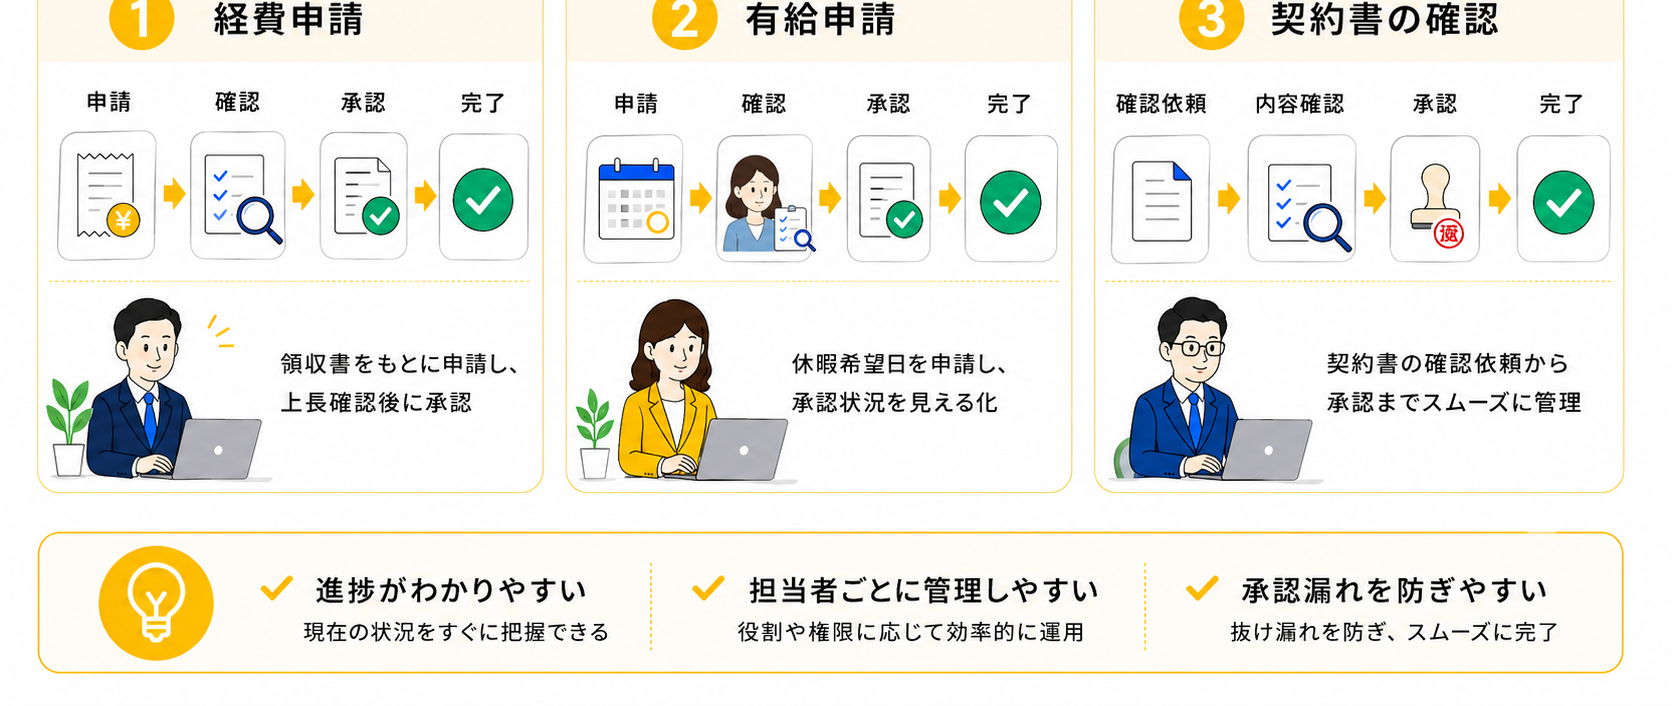
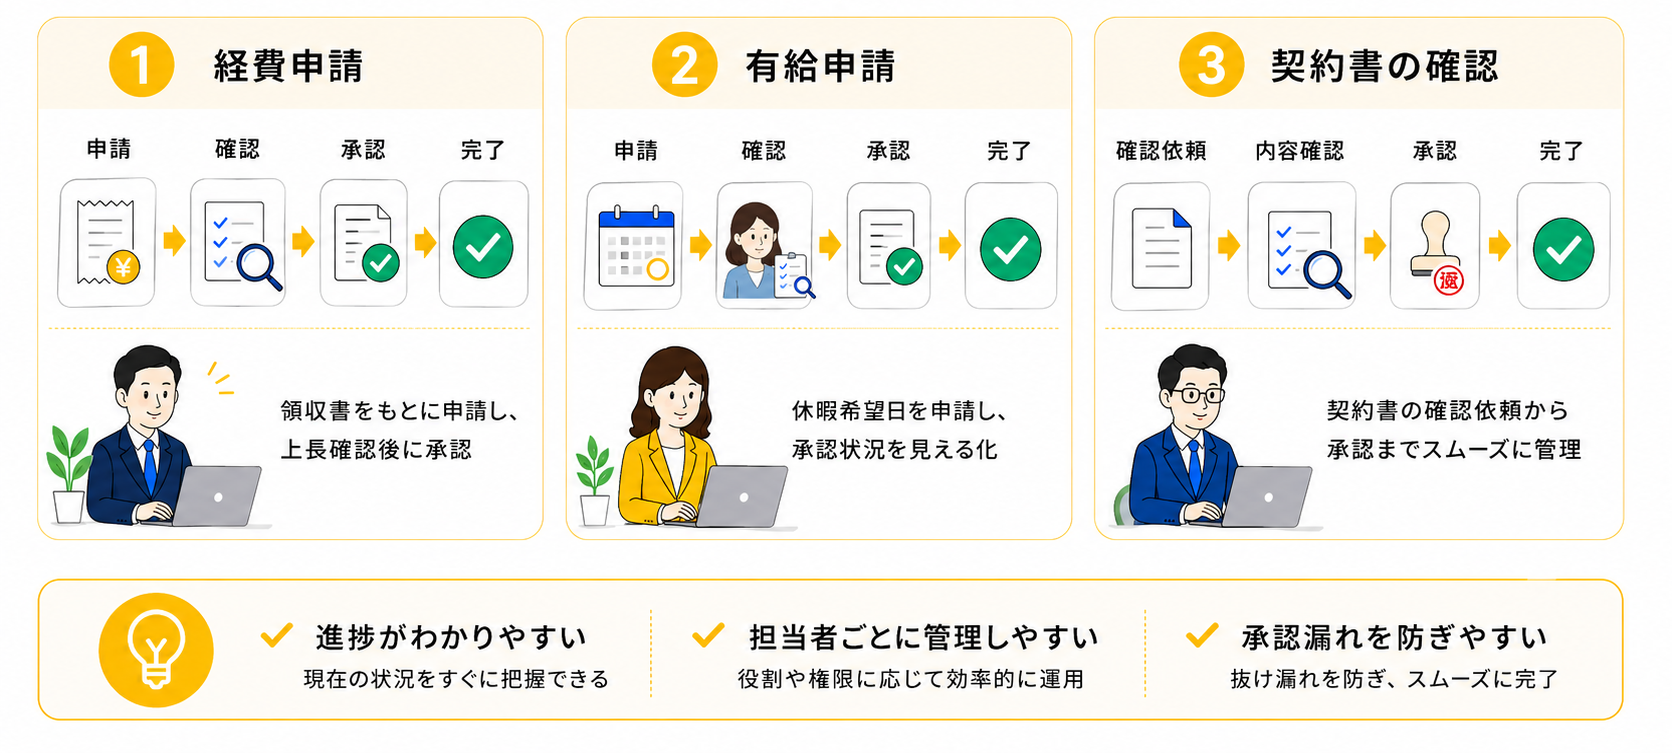
承認フロー：活用シーン画像のカットを20%に戻す＋補足ポイントのアイコンを電球(fa-lightbulb)に統一

diff --git a/column/kintone-approval-flow/index.html b/column/kintone-approval-flow/index.html
@@ -852,7 +852,7 @@
                     このように、<strong>部署や業務内容に合わせて承認フローを自由に作れます。</strong>
                 </p>
 
-                <h3><i class="fas fa-search" style="color: var(--kintone-yellow); margin-right: 8px;"></i>誰が止めているかが分かる</h3>
+                <h3><i class="fas fa-lightbulb" style="color: var(--kintone-yellow); margin-right: 8px;"></i>誰が止めているかが分かる</h3>
                 <p>
                     また、<strong>誰が止めているかも分かりやすくなります。</strong>例えば、「上司確認中」のまま止まっていれば、現在は上司が確認する番だと分かります。
                 </p>
@@ -860,7 +860,7 @@
                     そのため、「誰に聞けばいいか分からない」「どこで止まっているか分からない」といった状況を減らしやすくなります。
                 </p>
 
-                <h3><i class="fas fa-bell" style="color: var(--kintone-yellow); margin-right: 8px;"></i>確認漏れ・承認漏れを防げる</h3>
+                <h3><i class="fas fa-lightbulb" style="color: var(--kintone-yellow); margin-right: 8px;"></i>確認漏れ・承認漏れを防げる</h3>
                 <p>
                     さらに、<strong>確認漏れや承認漏れも防ぎやすくなります。</strong>承認が必要な人に通知を送ることもできるため、対応忘れを減らしやすくなります。
                 </p>
